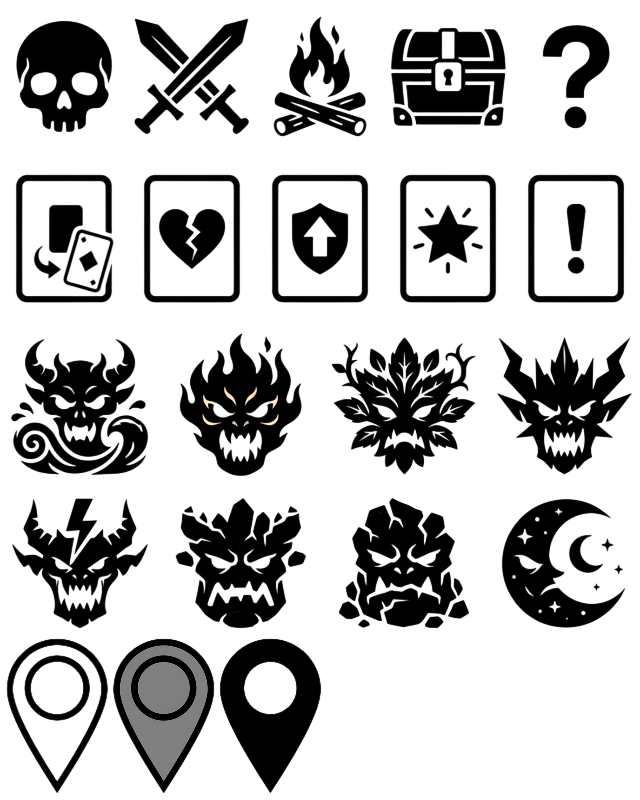
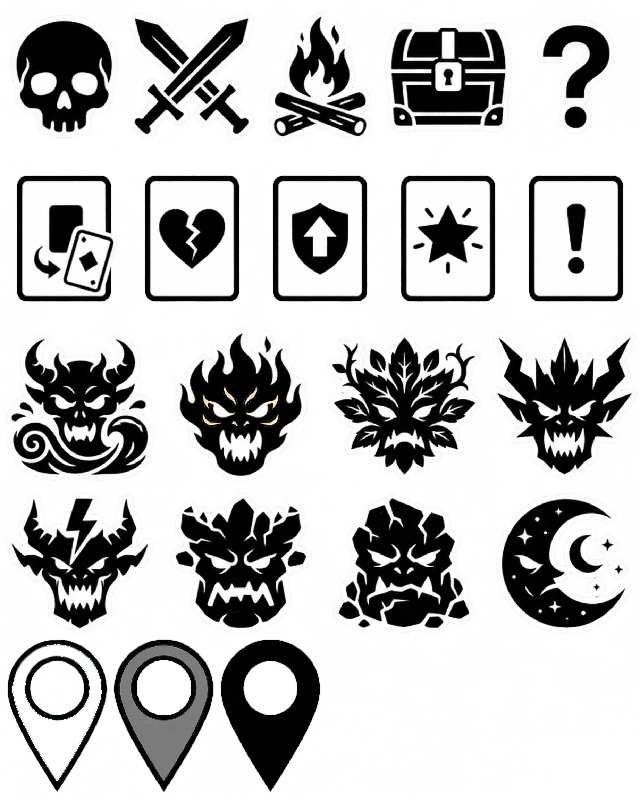
mainScene 업데이트   * 이미지 변경 by 이재환

diff --git a/src/scenes/MainScene.ts b/src/scenes/MainScene.ts
@@ -7,6 +7,8 @@ const MAP_WORLD_HEIGHT = 2400;
 const MAP_NUM_LAYERS   = 12;
 const MAP_ZOOM         = 1.1;
 
+const PATH_DOT_INTERVAL = 38; // 도트 간 간격(px) — 거리에 비례해 도트 수 자동 결정
+
 const DECK_PANEL_HANDLE_H = 34;
 const DECK_PANEL_HANDLE_W = 120;
 const DECK_COLOR_GOLD     = 0xd4af37;
@@ -50,6 +52,7 @@ export default class MainScene extends Phaser.Scene {
   private playerToken!: Phaser.GameObjects.Sprite;
   private pauseMenuContainer!: Phaser.GameObjects.Container;
   private deckWindowContainer!: Phaser.GameObjects.Container;
+  private activePathsGraphics!: Phaser.GameObjects.Graphics;
 
   constructor() {
     super('MainScene');
@@ -79,9 +82,10 @@ export default class MainScene extends Phaser.Scene {
     this.currentNodeId = startNode.id;
 
     this.drawNodePaths(allNodes);
+    this.activePathsGraphics = this.add.graphics().setDepth(4);
 
     const nodeSpritesMap = this.createNodeSprites(allNodes);
-    this.updateNodesVisibility(allNodes, nodeSpritesMap);
+    this.updateNodesVisibility(allNodes, nodeSpritesMap, true);
 
     this.createPlayerToken(startNode);
     this.setupInput(width, height);
@@ -89,11 +93,13 @@ export default class MainScene extends Phaser.Scene {
     // 덱 패널 생성 전 월드 오브젝트 목록 스냅샷
     const worldObjects = [...this.children.list];
     this.createDeckWindow(width, height);
+    const overlayContainer = this.createScreenOverlay(width, height);
 
     // UI 카메라: zoom=1, scroll=0 → 스크린 좌표 = 월드 좌표 (완전 고정)
     const uiCam = this.cameras.add(0, 0, width, height).setZoom(1);
     uiCam.ignore(worldObjects);
     this.cameras.main.ignore(this.deckWindowContainer);
+    this.cameras.main.ignore(overlayContainer);
 
     // 노드 클릭 이벤트 등록 (allNodes, nodeSpritesMap 클로저로 사용)
     this.registerNodeClickEvents(allNodes, nodeSpritesMap);
@@ -108,11 +114,56 @@ export default class MainScene extends Phaser.Scene {
   private initCamera(mapWorldWidth: number) {
     this.cameras.main.setBounds(0, 0, mapWorldWidth, MAP_WORLD_HEIGHT);
     this.cameras.main.setZoom(MAP_ZOOM);
+    this.cameras.main.setRoundPixels(true);
   }
 
   private initBackground(mapWorldWidth: number) {
     const bg = this.add.image(mapWorldWidth / 2, MAP_WORLD_HEIGHT / 2, 'map_bg');
     bg.setDisplaySize(mapWorldWidth, MAP_WORLD_HEIGHT);
+
+    // 다크 블루 분위기 틴트 (맵 위에 바로 얹힘)
+    const tint = this.add.graphics();
+    tint.fillStyle(0x08081a, 0.40);
+    tint.fillRect(0, 0, mapWorldWidth, MAP_WORLD_HEIGHT);
+    tint.setDepth(1);
+  }
+
+  /** 화면 고정 오버레이 (비네트 + 스캔라인 + 골드 프레임) — UI 카메라 전용 */
+  private createScreenOverlay(width: number, height: number): Phaser.GameObjects.Container {
+    const container = this.add.container(0, 0);
+    container.setDepth(45);
+
+    // ── 비네트: 몇 개의 반투명 사각형으로 그라디언트 근사 ──────────────────
+    const vignette = this.add.graphics();
+    const strips = [
+      { a: 0.45, s: 32 },
+      { a: 0.28, s: 65 },
+      { a: 0.13, s: 105 },
+    ];
+    strips.forEach(({ a, s }) => {
+      vignette.fillStyle(0x000000, a);
+      vignette.fillRect(0, 0, width, s);                 // 상단
+      vignette.fillRect(0, height - s, width, s);        // 하단
+      vignette.fillRect(0, 0, s * 0.65, height);         // 좌측
+      vignette.fillRect(width - s * 0.65, 0, s * 0.65, height); // 우측
+    });
+
+    // ── 스캔라인: 넓은 간격으로 드로우콜 최소화 ─────────────────────────────
+    const scanlines = this.add.graphics();
+    scanlines.lineStyle(1, 0x000000, 0.10);
+    for (let y = 0; y < height; y += 6) {
+      scanlines.lineBetween(0, y, width, y);
+    }
+
+    // ── 골드 프레임 보더 ─────────────────────────────────────────────────────
+    const frame = this.add.graphics();
+    frame.lineStyle(2, DECK_COLOR_GOLD, 0.55);
+    frame.strokeRect(3, 3, width - 6, height - 6);
+    frame.lineStyle(1, DECK_COLOR_GOLD, 0.20);
+    frame.strokeRect(7, 7, width - 14, height - 14);
+
+    container.add([vignette, scanlines, frame]);
+    return container;
   }
 
   /** 이어하기면 세이브 파일에서 해시 로드, 없으면 새로 생성 후 저장 */
@@ -156,26 +207,31 @@ export default class MainScene extends Phaser.Scene {
     return mapHash;
   }
 
-  /** 노드 간 점선 경로 그리기 */
+  /** 노드 간 경로 그리기 — 베지어 곡선 점선 (고정 스타일, 배치 최적화) */
   private drawNodePaths(allNodes: MapNode[]) {
     const g = this.add.graphics();
-    g.fillStyle(0xffffff, 1);
-    g.lineStyle(2, 0x000000, 1);
+    g.setDepth(3);
+    g.fillStyle(0xd4af37, 0.75); // fillStyle 한 번만
 
     allNodes.forEach(node => {
       node.nextNodes.forEach(nextId => {
-        const nextNode = allNodes.find(n => n.id === nextId);
-        if (!nextNode) return;
+        const next = allNodes.find(n => n.id === nextId);
+        if (!next) return;
 
-        const dist     = Phaser.Math.Distance.Between(node.x, node.y, nextNode.x, nextNode.y);
-        const dotCount = Math.floor(dist / 20);
+        const cy1 = node.y + (next.y - node.y) * 0.35;
+        const cy2 = next.y - (next.y - node.y) * 0.35;
 
-        for (let i = 1; i < dotCount; i++) {
-          const t = i / dotCount;
-          const px = Phaser.Math.Linear(node.x, nextNode.x, t);
-          const py = Phaser.Math.Linear(node.y, nextNode.y, t);
-          g.fillCircle(px, py, 4);
-          g.strokeCircle(px, py, 4);
+        const dist  = Phaser.Math.Distance.Between(node.x, node.y, next.x, next.y);
+        const steps = Math.max(2, Math.round(dist / PATH_DOT_INTERVAL));
+
+        for (let i = 1; i < steps; i++) {
+          const t  = i / steps;
+          const mt = 1 - t;
+          const px = mt * mt * mt * node.x + 3 * mt * mt * t * node.x
+                   + 3 * mt * t * t * next.x + t * t * t * next.x;
+          const py = mt * mt * mt * node.y + 3 * mt * mt * t * cy1
+                   + 3 * mt * t * t * cy2   + t * t * t * next.y;
+          g.fillCircle(px, py, 3);
         }
       });
     });
@@ -193,13 +249,14 @@ export default class MainScene extends Phaser.Scene {
         dot.lineStyle(3, 0x000000, 1);
         dot.fillCircle(node.x, node.y, 16);
         dot.strokeCircle(node.x, node.y, 16);
+        dot.setDepth(6);
         nodeSpritesMap.set(node.id, dot);
         return;
       }
 
       const frameName = this.getNodeFrameName(node.type);
       const sprite    = this.add.sprite(node.x, node.y, 'map_nodes', frameName);
-      sprite.setScale(NODE_SCALE_DEFAULT);
+      sprite.setScale(NODE_SCALE_DEFAULT).setDepth(6);
       sprite.setInteractive({ useHandCursor: true });
       nodeSpritesMap.set(node.id, sprite);
 
@@ -230,18 +287,14 @@ export default class MainScene extends Phaser.Scene {
         if (this.isPaused || this.isMoving) return;
 
         const currentNode = allNodes.find(n => n.id === this.currentNodeId);
-        if (!currentNode) {
-          this.cameras.main.shake(100, 0.005);
-          return;
-        }
+        if (!currentNode) return;
 
         if (currentNode.nextNodes.includes(node.id)) {
           this.movePlayer(node.x, node.y);
           this.currentNodeId = node.id;
-          this.updateNodesVisibility(allNodes, nodeSpritesMap);
-        } else {
-          this.cameras.main.shake(100, 0.005);
+          this.updateNodesVisibility(allNodes, nodeSpritesMap, true);
         }
+        // 불가 노드 클릭 시 아무 반응 없음 (shake 제거)
       });
     });
   }
@@ -443,7 +496,11 @@ export default class MainScene extends Phaser.Scene {
   // 노드 비주얼 업데이트
   // ─────────────────────────────────────────────────────────────────────────────
 
-  private updateNodesVisibility(allNodes: MapNode[], nodeSpritesMap: Map<number, NodeSprite>) {
+  private updateNodesVisibility(
+    allNodes: MapNode[],
+    nodeSpritesMap: Map<number, NodeSprite>,
+    redrawPaths = false,
+  ) {
     const currentNode = allNodes.find(n => n.id === this.currentNodeId);
     if (!currentNode) return;
 
@@ -455,19 +512,55 @@ export default class MainScene extends Phaser.Scene {
       if (!(sprite instanceof Phaser.GameObjects.Sprite)) return;
 
       if (node.layer <= currentLayer && node.id !== this.currentNodeId) {
-        // 이미 지나간 노드
         sprite.setAlpha(0.3).setScale(NODE_SCALE_PASSED).setTint(0x888888);
       } else if (node.id === this.currentNodeId) {
-        // 현재 위치
         sprite.setAlpha(1).setScale(NODE_SCALE_DEFAULT).clearTint();
       } else if (node.layer === currentLayer + 1 && currentNode.nextNodes.includes(node.id)) {
-        // 다음 진행 가능 노드
         this.tweens.killTweensOf(sprite);
         sprite.setAlpha(1).setScale(NODE_SCALE_DEFAULT).clearTint();
       } else {
-        // 아직 갈 수 없는 미래 노드
         sprite.setAlpha(0.6).setScale(NODE_SCALE_INACTIVE).clearTint();
         this.tweens.killTweensOf(sprite);
+      }
+    });
+
+    if (redrawPaths) {
+      this.redrawActivePaths(currentNode, allNodes);
+    }
+  }
+
+  /** 현재 노드 → 진행 가능 노드 경로 강조 (흰색 글로우 이중 레이어) */
+  private redrawActivePaths(currentNode: MapNode, allNodes: MapNode[]) {
+    const g = this.activePathsGraphics;
+    g.clear();
+
+    currentNode.nextNodes.forEach(nextId => {
+      const next = allNodes.find(n => n.id === nextId);
+      if (!next) return;
+
+      const cy1   = currentNode.y + (next.y - currentNode.y) * 0.35;
+      const cy2   = next.y - (next.y - currentNode.y) * 0.35;
+      const dist  = Phaser.Math.Distance.Between(currentNode.x, currentNode.y, next.x, next.y);
+      const steps = Math.max(2, Math.round(dist / PATH_DOT_INTERVAL));
+
+      // 1패스: 외곽 글로우 (큰 반지름, 낮은 투명도)
+      g.fillStyle(0xffffff, 0.25);
+      for (let i = 1; i < steps; i++) {
+        const t  = i / steps;
+        const mt = 1 - t;
+        const px = mt*mt*mt*currentNode.x + 3*mt*mt*t*currentNode.x + 3*mt*t*t*next.x + t*t*t*next.x;
+        const py = mt*mt*mt*currentNode.y + 3*mt*mt*t*cy1           + 3*mt*t*t*cy2    + t*t*t*next.y;
+        g.fillCircle(px, py, 6);
+      }
+
+      // 2패스: 중심 코어 (작은 반지름, 완전 불투명 흰색)
+      g.fillStyle(0xffffff, 1);
+      for (let i = 1; i < steps; i++) {
+        const t  = i / steps;
+        const mt = 1 - t;
+        const px = mt*mt*mt*currentNode.x + 3*mt*mt*t*currentNode.x + 3*mt*t*t*next.x + t*t*t*next.x;
+        const py = mt*mt*mt*currentNode.y + 3*mt*mt*t*cy1           + 3*mt*t*t*cy2    + t*t*t*next.y;
+        g.fillCircle(px, py, 2.5);
       }
     });
   }
@@ -574,7 +667,7 @@ export default class MainScene extends Phaser.Scene {
     // 레이어별 노드 생성
     for (let layer = 0; layer < MAP_NUM_LAYERS; layer++) {
       const y        = height - 200 - layer * layerSpacingY;
-      const numNodes = isEdgeLayer(layer) ? 1 : randInt(2, 4);
+      const numNodes = isEdgeLayer(layer) ? 1 : randInt(2, 3);
       const spacingX = width / (numNodes + 1);
       const nodes: MapNode[] = [];
 
@@ -597,34 +690,51 @@ export default class MainScene extends Phaser.Scene {
       mapLayersData.push(nodes);
     }
 
+    // 각 레이어를 x 좌표 기준으로 정렬 → 좌우 교차 방지
+    for (const layer of mapLayersData) {
+      layer.sort((a, b) => a.x - b.x);
+    }
+
     // 레이어 간 엣지(Edge) 연결
     for (let layer = 0; layer < MAP_NUM_LAYERS - 1; layer++) {
       const cur  = mapLayersData[layer];
       const next = mapLayersData[layer + 1];
 
       cur.forEach((node, idx) => {
-        const ratio   = idx / Math.max(1, cur.length - 1);
-        const nextIdx = Math.round(ratio * (next.length - 1));
-        node.nextNodes.push(next[nextIdx].id);
+        // cur 1개면 center로 매핑, 그 외엔 비율 기반
+        const ratio   = cur.length === 1 ? 0.5 : idx / (cur.length - 1);
+        const baseIdx = Math.round(ratio * (next.length - 1));
 
-        // 30% 확률로 이웃 노드에도 추가 연결
-        if (random() < 0.3 && next.length > 1) {
-          const extraIdx = (nextIdx + 1) % next.length;
-          if (!node.nextNodes.includes(next[extraIdx].id)) {
-            node.nextNodes.push(next[extraIdx].id);
+        // 주 연결
+        node.nextNodes.push(next[baseIdx].id);
+
+        // 보조 연결: 항상 추가, baseIdx ±1 인접만 허용 (wrap-around 없음)
+        if (next.length > 1) {
+          const candidates: number[] = [];
+          if (baseIdx > 0)               candidates.push(baseIdx - 1);
+          if (baseIdx < next.length - 1) candidates.push(baseIdx + 1);
+
+          if (candidates.length > 0) {
+            const best = candidates.reduce((a, b) =>
+              Math.abs(next[a].x - node.x) < Math.abs(next[b].x - node.x) ? a : b,
+            );
+            if (!node.nextNodes.includes(next[best].id)) {
+              node.nextNodes.push(next[best].id);
+            }
           }
         }
       });
 
-      // 고립 노드 방어: 연결되지 않은 다음 레이어 노드를 강제로 연결
-      next.forEach((nextNode, nextIdx) => {
+      // 고립 노드 방어: x 거리 기준 가장 가까운 cur 노드에 연결
+      next.forEach(nextNode => {
         const isLinked = cur.some(n => n.nextNodes.includes(nextNode.id));
         if (isLinked) return;
 
-        const ratio   = nextIdx / Math.max(1, next.length - 1);
-        const currIdx = Math.round(ratio * (cur.length - 1));
-        if (!cur[currIdx].nextNodes.includes(nextNode.id)) {
-          cur[currIdx].nextNodes.push(nextNode.id);
+        const closestIdx = cur.reduce((best, _, ci) =>
+          Math.abs(cur[ci].x - nextNode.x) < Math.abs(cur[best].x - nextNode.x) ? ci : best, 0,
+        );
+        if (!cur[closestIdx].nextNodes.includes(nextNode.id)) {
+          cur[closestIdx].nextNodes.push(nextNode.id);
         }
       });
     }